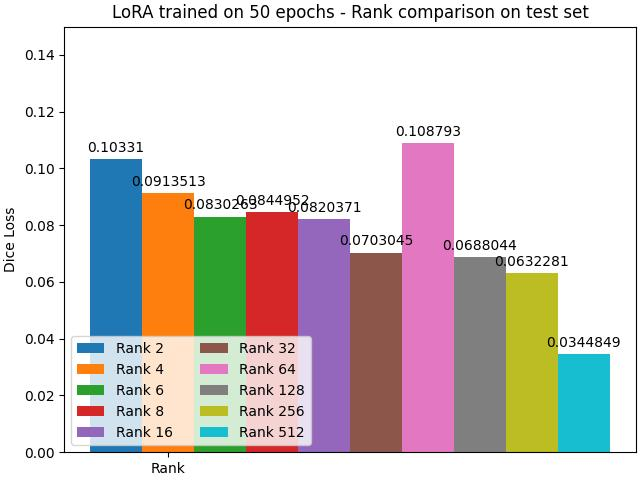
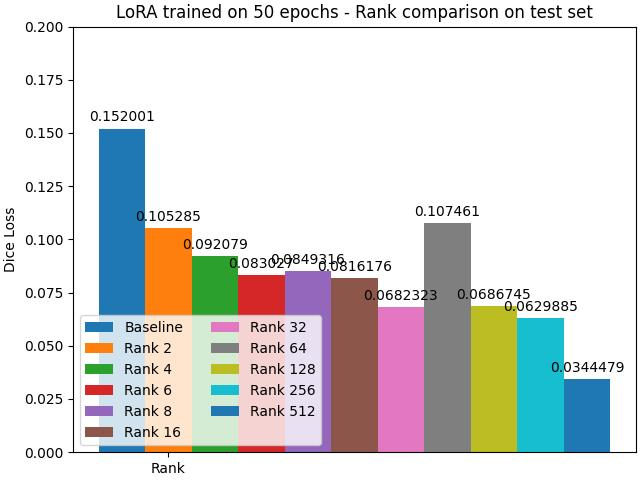
fix

diff --git a/inference_eval.py b/inference_eval.py
@@ -29,15 +29,39 @@ with open("./config.yaml", "r") as ymlfile:
    config_file = yaml.load(ymlfile, Loader=yaml.Loader)
 rank_list = [2, 4, 6, 8, 16, 32, 64, 128, 256, 512]
 rank_loss = []
+total_baseline_loss = []
+baseline_loss = 0
 # Load SAM model
 with torch.no_grad():
+    sam = build_sam_vit_b(checkpoint=config_file["SAM"]["CHECKPOINT"])
+    baseline = sam
+    processor = Samprocessor(baseline)
+    dataset = DatasetSegmentation(config_file, processor, mode="test")
+    test_dataloader = DataLoader(dataset, batch_size=1, collate_fn=collate_fn)
+    baseline.eval()
+    baseline.to(device)   
+    for i, batch in enumerate(tqdm(test_dataloader)):
+        
+        outputs = baseline(batched_input=batch,
+            multimask_output=False)
+        
+        gt_mask_tensor = batch[0]["ground_truth_mask"].unsqueeze(0).unsqueeze(0) # We need to get the [B, C, H, W] starting from [H, W]
+        loss = seg_loss(outputs[0]["low_res_logits"], gt_mask_tensor.float().to(device))
+
+        total_baseline_loss.append(loss.item())
+        
+
+    print(f'Mean dice score: {mean(total_baseline_loss)}')
+    baseline_loss = mean(total_baseline_loss)
+
     for rank in rank_list:
         sam = build_sam_vit_b(checkpoint=config_file["SAM"]["CHECKPOINT"])
+        baseline = sam
         #Create SAM LoRA
         sam_lora = LoRA_sam(sam, rank)
         sam_lora.load_lora_parameters(f"./lora_weights/lora_rank{rank}.safetensors")  
         model = sam_lora.sam
-
+        
         # Process the dataset
         processor = Samprocessor(model)
         dataset = DatasetSegmentation(config_file, processor, mode="test")
@@ -71,7 +95,8 @@ print("RANK LOSS :", rank_loss)
 
 width = 0.25  # the width of the bars
 multiplier = 0
-models_results= {"Rank 2": rank_loss[0], 
+models_results= {"Baseline": baseline_loss,
+                 "Rank 2": rank_loss[0], 
                  "Rank 4": rank_loss[1], 
                  "Rank 6": rank_loss[2],
                  "Rank 8": rank_loss[3],
@@ -97,6 +122,6 @@ ax.set_ylabel('Dice Loss')
 ax.set_title('LoRA trained on 50 epochs - Rank comparison on test set')
 ax.set_xticks(x + width, eval_scores_name)
 ax.legend(loc=3, ncols=2)
-ax.set_ylim(0, 0.15)
+ax.set_ylim(0, 0.2)
 
 plt.savefig("./plots/rank_comparison.jpg")

diff --git a/README.md b/README.md
@@ -64,7 +64,10 @@ We only need to initialize the matrices, freeze SAM and tune the matrices compon
 
 ## SAM LoRA
 To apply LoRA to SAM, I had to choose a block to apply our adapter. I chose the image encoder because it could be interesting to tune the block that “understand”/encode the images. My LoRA implementation is adapting the **attention modules (queries and values)** of the ViT base by adding 2 nn.Linear in chain after computing queries and values (equivalent of B*A matrices product).
-
+The lora adapter is in:
+```
+   /src/lora.py
+```
 ![SAM Architecture](./docs/images/sam_lora_archi.png)
 *SAM + LoRA adaption*
 
@@ -158,7 +161,7 @@ We can see some good segmentation like in demo 1 or demo 2 but it becomes more d
 
 # Conclusion/Discussion
 
-**** to do *******
+Using adapters 
 
 # Folder layout
     .
